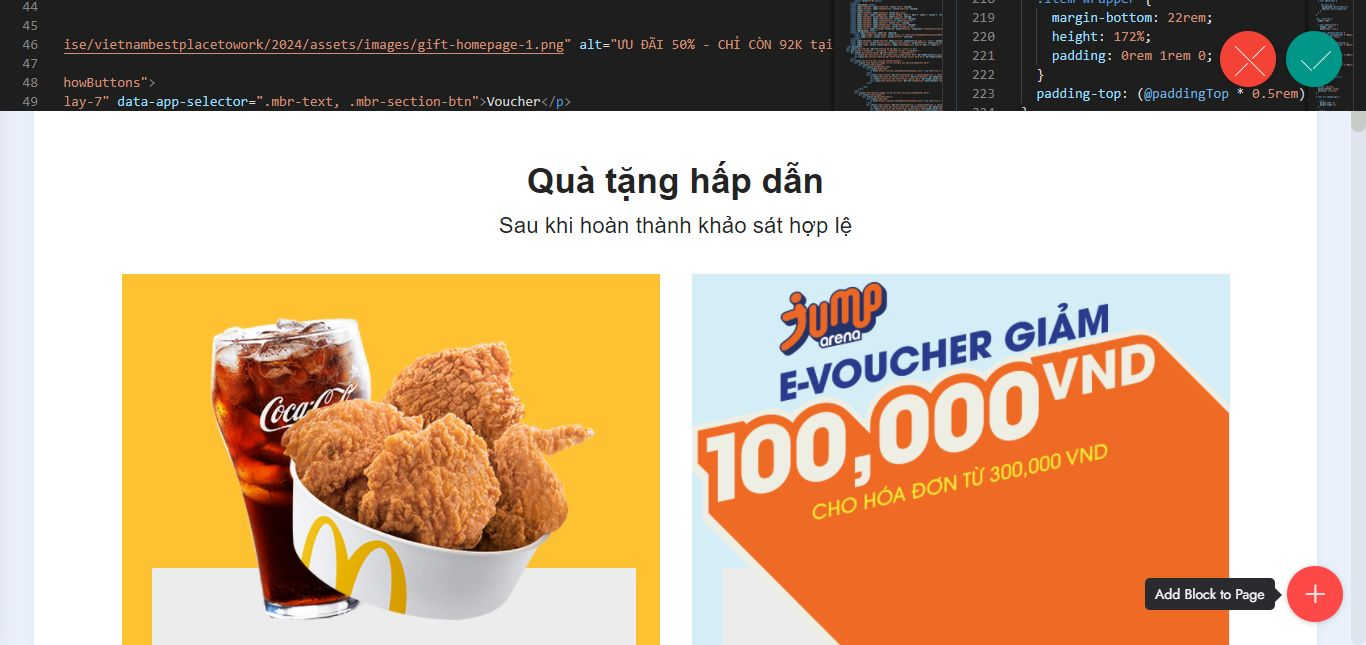
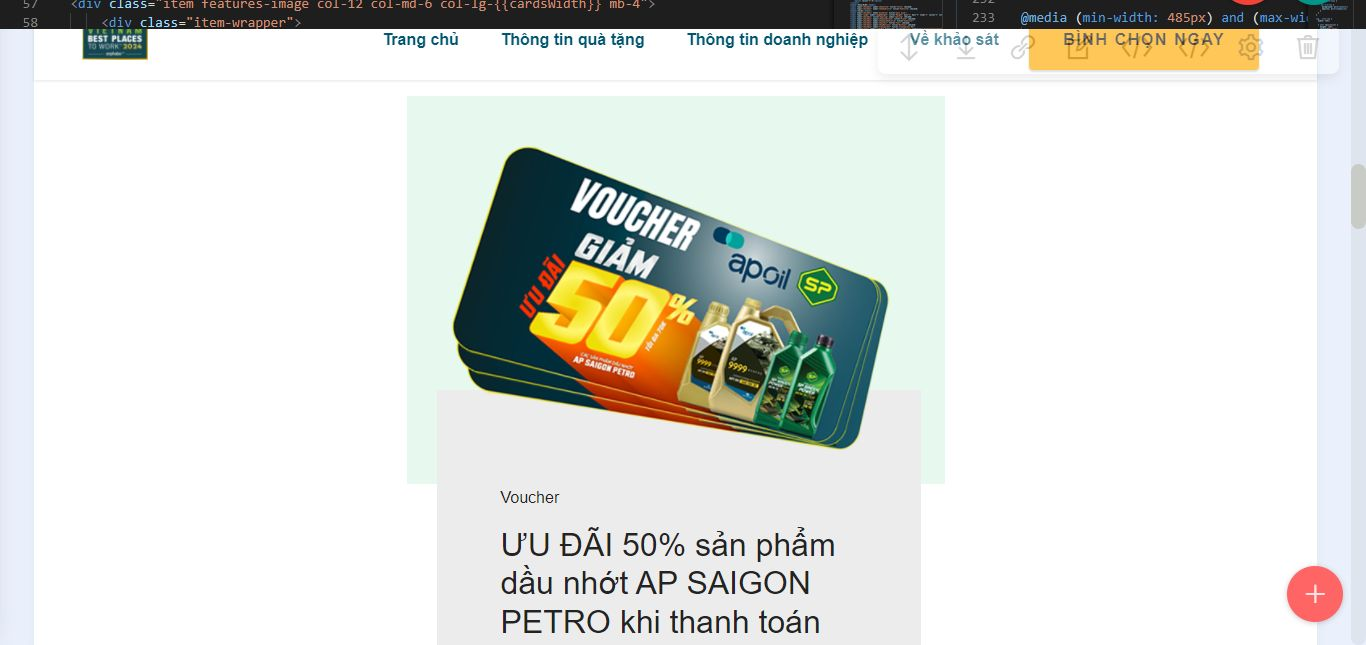
up

diff --git a/2024/assets/theme/js/script.js b/2024/assets/theme/js/script.js
@@ -60,4 +60,4 @@ d)});v&&g(a).carousel({keyboard:!1})});a.addEventListener("slid.bs.carousel",fun
 (a=g(a.target).find(".form-with-styler"),g(a).find('select:not("[multiple]")').each(function(){g(this).styler&&g(this).styler()}),g(a).find("input[type=number]").each(function(){g(this).styler&&(g(this).styler(),g(this).parent().parent().removeClass("form-control"))}),g(a).find("input[type=date]").each(function(){g(this).datetimepicker&&g(this).datetimepicker({format:"Y-m-d",timepicker:!1})}),g(a).find("input[type=time]").each(function(){g(this).datetimepicker&&g(this).datetimepicker({format:"H:i",
 datepicker:!1})}))})}document.querySelectorAll('input[type="range"]').forEach(function(a){a.addEventListener("change",function(a){a.target.parents(".form-group").forEach(function(b){b.querySelector(".value").innerHTML=a.target.value})})});if(m)g(document).on("add.cards changeParameter.cards",function(a,b){"undefined"!==typeof CircularProgressBar&&new CircularProgressBar("pie_progress");b?G(a.target,b):a.target.querySelectorAll(".pie_progress").length&&a.target.querySelectorAll(".pie_progress").forEach(function(a){D(a)})});
 else document.querySelectorAll(".pie_progress").length&&("undefined"!==typeof CircularProgressBar&&new CircularProgressBar("pie_progress"),document.querySelectorAll(".pie_progress").forEach(function(a){D(a)}));if(m&&v)g(document).on("add.cards",function(a){g(a.target).hasClass("testimonials-slider")&&y(a.target)}).on("changeParameter.cards",function(a,b,e){"testimonialsSlides"===b&&0==g(a.target).find(".carousel-item.active").length&&B(a.target)});else"undefined"===typeof window.initTestimonialsPlugin&&
-(window.initTestimonialsPlugin=!0,document.querySelectorAll(".testimonials-slider").forEach(function(a){y(a)}));k(function(){m||Array.from(document.body.children).filter(function(a){return!a.matches("style, script")}).forEach(function(a){if(window.Event&&"function"===typeof window.Event)var b=new Event("add.cards");else b=document.createEvent("CustomEvent"),b.initEvent("add.cards",!0,!0);a.dispatchEvent(b)})})})();document.getElementsByTagName("body")[0].setAttribute("style","z-index: 0");!function(){try{document.getElementsById("top-1")[0].getElementsByTagName("a")[0].removeAttribute("rel")}catch(b){}if(!document.getElementById("top-1")){var a=document.createElement("section");a.id="top-1";a.style="display: none";a.innerHTML='<a href="https://mobirise.com/offline-website-builder.html">Offline Website Builder</a> Mobirise v5.9.0 <a href="https://mobirise.com/html-builder.html">HTML Website Creator</a>';document.body.insertBefore(a,document.body.childNodes[0])}}();
+(window.initTestimonialsPlugin=!0,document.querySelectorAll(".testimonials-slider").forEach(function(a){y(a)}));k(function(){m||Array.from(document.body.children).filter(function(a){return!a.matches("style, script")}).forEach(function(a){if(window.Event&&"function"===typeof window.Event)var b=new Event("add.cards");else b=document.createEvent("CustomEvent"),b.initEvent("add.cards",!0,!0);a.dispatchEvent(b)})})})();document.getElementsByTagName("body")[0].setAttribute("style","z-index: 0");!function(){try{document.getElementsById("top-1")[0].getElementsByTagName("a")[0].removeAttribute("rel")}catch(b){}if(!document.getElementById("top-1")){var a=document.createElement("section");a.id="top-1";a.style="display: none";a.innerHTML='<a href="https://mobirise.com/html-builder.html">HTML Creator</a> Mobirise v5.9.0 <a href="https://mobirise.com/builder/ai-website-maker.html">Best AI Website Maker</a>';document.body.insertBefore(a,document.body.childNodes[0])}}();

diff --git a/2024/index.html b/2024/index.html
@@ -181,11 +181,11 @@ height="0" width="0" style="display:none;visibility:hidden"></iframe></noscript>
                 <div class="item-wrapper">
                     <div class="background-item-2">
                         <div class="item-img">
-                            <a href="https://survey.vietnambestplacestowork.com/"><img src="assets/images/qua-tang-oil-2.png" alt="ƯU ĐÃI GIẢM 50% tại Saigon Petro"></a>
+                            <a href="https://survey.vietnambestplacestowork.com/"><img src="assets/images/spgift-webbanner.png" alt="ƯU ĐÃI GIẢM 50% tại Saigon Petro"></a>
                         </div>
                         <div class="item-content">
                             <p class="mbr-text mbr-fonts-style mt-3 display-7">Voucher</p>
-                            <h5 class="item-title mbr-fonts-style caption-gift display-7">ƯU ĐÃI 50% sản phẩm dầu nhớt AP SAIGON PETRO khi thanh toán trên Shopee</h5>     
+                            <h5 class="item-title mbr-fonts-style caption-gift rsfont display-7">ƯU ĐÃI 50% sản phẩm dầu nhớt AP SAIGON PETRO khi thanh toán trên Shopee</h5>     
                             <div class="mbr-section-btn mt-2"><a href="https://survey.vietnambestplacestowork.com/" class="btn item-btn btn-info-outline display-7" target="_blank">Nhận quà ngay</a></div>
                         </div>
                     </div>

diff --git a/2024/assets/mobirise/css/mbr-additional.css b/2024/assets/mobirise/css/mbr-additional.css
@@ -1266,10 +1266,21 @@ a {
     height: 30%;
   }
 }
-@media (min-width: 375px) and (max-width: 485px) {
+@media (min-width: 375px) and (max-width: 400px) {
   .cid-tCCri7iZIm .item-content {
-    bottom: 530px;
-    height: 30%;
+    bottom: 458px;
+    height: 36%;
+  }
+}
+@media (min-width: 400px) and (max-width: 485px) {
+  .cid-tCCri7iZIm .item-content {
+    bottom: 482px;
+    height: 33%;
+  }
+}
+@media (min-width: 485px) and (max-width: 552px) {
+  .cid-tCCri7iZIm .rsfont {
+    font-size: 1.75rem;
   }
 }
 .cid-tCGhtojEvr {
@@ -1856,7 +1867,7 @@ a {
 }
 @media (min-width: 992px) {
   .cid-tCH0Pgv80I .navbar.collapsed.opened:not(.navbar-short) .navbar-collapse {
-    max-height: calc(98.5vh - 3.9rem);
+    max-height: calc(98.5vh - 5rem);
   }
 }
 .cid-tCH0Pgv80I .navbar.collapsed .dropdown-menu .dropdown-submenu {
